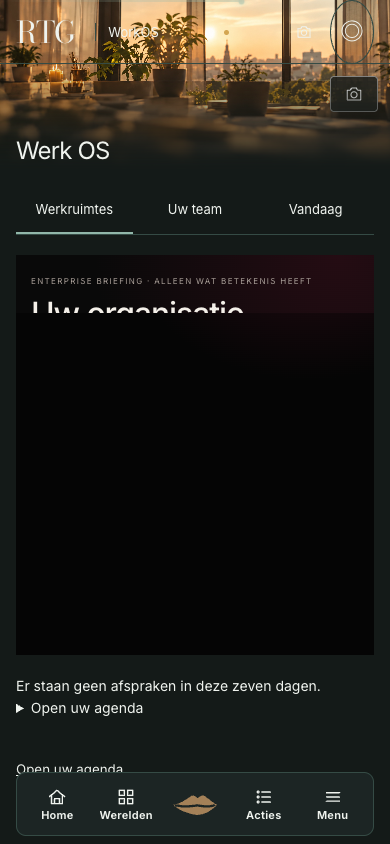
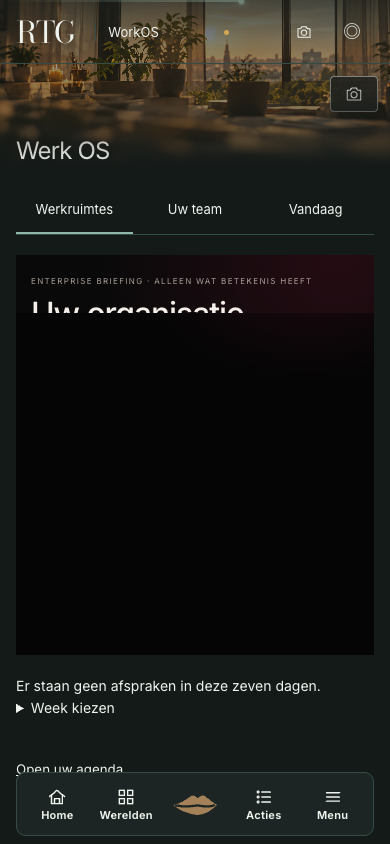
Finish warm presentation accessibility and preserve shared frame at closed rooms

diff --git a/public/shared/rtg-foundation-meedoen-ontdekken-2026.css b/public/shared/rtg-foundation-meedoen-ontdekken-2026.css
@@ -10,7 +10,7 @@ body.foundation-meedoen .mo-paginakop>button .rtg-glyf,body.foundation-meedoen .
 body.foundation-meedoen .mo-sluit{border:1px solid var(--mo-lijn)!important;background:transparent!important;color:var(--mo-inkt)!important;font-size:1.4rem!important}
 *{box-sizing:border-box}.foundation-meedoen{margin:0;background:var(--mo-ivoor);color:var(--mo-inkt);font-family:Inter,Arial,sans-serif;padding-bottom:calc(6rem + env(safe-area-inset-bottom));min-height:100vh}.foundation-meedoen button,.foundation-meedoen a{font:inherit}.mo-skip{position:fixed;top:-4rem;left:1rem;z-index:100;background:var(--mo-papier);color:var(--mo-inkt);padding:.7rem 1rem}.mo-skip:focus{top:1rem}.mo-top{position:sticky;top:0;z-index:20;height:4.5rem;padding:.7rem clamp(1rem,4vw,2rem);display:flex;align-items:center;gap:.85rem;background:rgba(18,61,58,.97);color:#fffaf1;border-bottom:1px solid rgba(255,255,255,.16)}.mo-brand{font-family:'Bodoni Moda',Georgia,serif;font-size:2rem;color:#d6b36b;text-decoration:none;line-height:1}.mo-world{display:flex;flex-direction:column;line-height:1.15}.mo-world b{font-size:.92rem}.mo-world span{font-size:.58rem;letter-spacing:.14em;text-transform:uppercase;opacity:.74;margin-top:.22rem}.mo-profiel{margin-left:auto;color:#fffaf1;width:2.65rem;height:2.65rem;border:1px solid rgba(255,255,255,.36);display:grid;place-items:center;border-radius:50%}.mo-profiel .rtg-glyf{width:1.3rem}.mo-main{max-width:50rem;margin:0 auto}.mo-view[hidden]{display:none}.mo-view.is-actief{animation:mo-in .26s ease both}@keyframes mo-in{from{opacity:.25;transform:translateY(5px)}to{opacity:1;transform:none}}.mo-kicker{margin:0 0 .45rem;text-transform:uppercase;letter-spacing:.2em;font-size:.65rem;font-weight:700;color:var(--mo-wijn)}.mo-hero{position:relative;min-height:35rem;display:flex;align-items:flex-end;overflow:hidden;background:#4c3729}.mo-hero__beeld{position:absolute;inset:0;background:url('/images/worlds/heritage/foundation-meedoen-buurt-v1.jpg') center 42%/cover no-repeat;filter:saturate(.83) contrast(.96)}.mo-hero::after{content:"";position:absolute;inset:0;background:linear-gradient(180deg,rgba(10,27,25,.03) 20%,rgba(12,31,29,.88) 100%)}.mo-hero__laag{position:relative;z-index:1;color:#fffaf1;padding:5rem clamp(1.25rem,5vw,2.5rem) 2.5rem;max-width:43rem}.mo-hero__laag .mo-kicker{color:#e0bf7a}.mo-hero h1,.mo-paginakop h1,.mo-detailbeeld h1{font-family:'Bodoni Moda',Georgia,serif!important;text-transform:none!important;font-weight:400!important;letter-spacing:-.025em!important}.mo-hero h1{font-size:clamp(2.55rem,8vw,4.7rem);line-height:.98;margin:0;max-width:12ch}.mo-hero__laag>p:not(.mo-kicker){max-width:31rem;line-height:1.6;margin:1rem 0 1.25rem;color:#f6f0e7}.mo-hoofdknop{min-height:3.25rem;padding:.8rem 1.1rem;border:0;background:var(--mo-wijn);color:white;font-weight:700;display:inline-flex;align-items:center;justify-content:center;gap:.75rem;cursor:pointer}.mo-hoofdknop .rtg-glyf{width:1rem}.mo-hoofdknop:disabled{background:#857d74;cursor:not-allowed}.mo-hoofdknop.is-bewaard{background:var(--mo-teal)}.mo-hoofdknop--breed{width:100%}.mo-inhoud{padding:1.35rem clamp(1rem,4vw,2rem);display:grid;gap:1rem}.mo-inhoud--smal,.mo-inhoud--detail{max-width:43rem;margin:0 auto}.mo-stadregel,.mo-heading{display:flex;align-items:end;justify-content:space-between;gap:1rem}.mo-stadregel h2,.mo-heading h2,.mo-belofte h2,.mo-dialoog h2{font-family:'Bodoni Moda',Georgia,serif;font-weight:500;margin:0;font-size:1.6rem;line-height:1.1}.mo-tekstknop,.mo-heading>button{border:0;background:none;color:var(--mo-wijn);font-weight:700;padding:.7rem 0;cursor:pointer}.mo-steden{display:grid;grid-template-columns:repeat(auto-fill,minmax(8.5rem,1fr));gap:.7rem}.mo-steden>button{border:1px solid var(--mo-lijn);background:var(--mo-papier);color:var(--mo-inkt);padding:.7rem;text-align:left;display:grid;grid-template-columns:2.6rem 1fr;gap:.15rem .65rem;cursor:pointer}.mo-steden>button>span{grid-row:1/3;width:2.6rem;height:2.6rem;display:grid;place-items:center;background:#e4d8c2;color:var(--mo-wijn);font-family:'Bodoni Moda',serif;font-size:1.2rem}.mo-steden>button b{font-size:.82rem}.mo-steden>button small{color:var(--mo-zacht);overflow:hidden;text-overflow:ellipsis;white-space:nowrap}.mo-steden>button[aria-pressed=true]{border-color:var(--mo-wijn);box-shadow:inset 0 -3px var(--mo-wijn)}.mo-paneel{background:var(--mo-papier);border:1px solid var(--mo-lijn);padding:1.05rem}.mo-lijst,.mo-activiteiten{display:grid;margin-top:.65rem}.mo-activiteit{width:100%;border:0;border-top:1px solid var(--mo-lijn);background:transparent;color:var(--mo-inkt);padding:.85rem .2rem;display:grid;grid-template-columns:3.1rem 1fr auto;gap:.75rem;align-items:center;text-align:left;cursor:pointer}.mo-activiteit:first-child{border-top:0}.mo-datum{border-right:1px solid var(--mo-lijn);text-align:center;display:flex;flex-direction:column}.mo-datum b{font-family:'Bodoni Moda',serif;font-size:1.45rem}.mo-datum small,.mo-activiteit__copy small{font-size:.62rem;text-transform:uppercase;letter-spacing:.1em;color:var(--mo-wijn)}.mo-activiteit__copy{display:flex;flex-direction:column;min-width:0}.mo-activiteit__copy b{font-size:.95rem;margin:.12rem 0}.mo-activiteit__copy em{font-style:normal;color:var(--mo-zacht);font-size:.75rem;white-space:nowrap;overflow:hidden;text-overflow:ellipsis}.mo-activiteit__eind{display:flex;align-items:center;gap:.3rem;color:var(--mo-wijn)}.mo-activiteit__eind small{font-size:.65rem;white-space:nowrap}.mo-activiteit__eind .rtg-glyf{width:.9rem}.mo-leeg{padding:1.2rem .5rem;color:var(--mo-zacht);display:flex;flex-direction:column;gap:.3rem;line-height:1.5}.mo-leeg b{color:var(--mo-inkt)}.mo-belofte{padding:1.15rem;display:flex;gap:1rem;align-items:center;background:var(--mo-teal);color:#fffaf1}.mo-belofte>.rtg-glyf{width:2.2rem;color:#d6b36b;flex:none}.mo-belofte p{margin:.35rem 0 0;color:rgba(255,250,241,.78);font-size:.83rem;line-height:1.5}.mo-paginakop{min-height:14rem;padding:2.2rem clamp(1rem,4vw,2rem);display:grid;grid-template-columns:auto 1fr auto;gap:1rem;align-items:start;background:linear-gradient(135deg,#0e3533,#1d514c);color:#fffaf1}.mo-paginakop--goud{background:linear-gradient(135deg,#765b2e,#b28b49)}.mo-paginakop--kansen{background:linear-gradient(135deg,#2e1821,#7f1736)}.mo-paginakop>button{width:2.7rem;height:2.7rem;border:1px solid rgba(255,255,255,.45);background:transparent;color:#fffaf1;display:grid;place-items:center;cursor:pointer}.mo-paginakop>button .rtg-glyf{width:1.1rem}.mo-paginakop h1{font-size:clamp(2.1rem,7vw,3.5rem);line-height:1;margin:0;max-width:12ch}.mo-paginakop p:last-child{font-size:.85rem;line-height:1.5;opacity:.8;max-width:31rem}.mo-paginakop .mo-stadwissel{display:flex;flex-direction:column;width:auto;height:auto;min-width:3.6rem;padding:.6rem}.mo-stadwissel span{font-size:.62rem;margin-top:.2rem}.mo-filters{display:grid;grid-template-columns:repeat(3,1fr);border-bottom:1px solid var(--mo-lijn)}.mo-filters button{border:0;background:transparent;color:var(--mo-zacht);padding:.8rem .25rem;cursor:pointer}.mo-filters button.is-actief{color:var(--mo-wijn);font-weight:700;box-shadow:inset 0 -3px var(--mo-wijn)}.mo-activiteiten{background:var(--mo-papier);border:1px solid var(--mo-lijn);padding:0 .85rem;margin:0}.mo-kaart{background:var(--mo-papier);border:1px solid var(--mo-lijn);padding:1rem}.mo-kaartbeeld{position:relative;min-height:14rem;margin-top:1rem;overflow:hidden;background-color:#e7dfd0;background-image:linear-gradient(33deg,transparent 47%,rgba(18,61,58,.1) 48% 52%,transparent 53%),linear-gradient(122deg,transparent 47%,rgba(18,61,58,.08) 48% 52%,transparent 53%);background-size:6rem 5rem}.mo-kaartbeeld>p{position:absolute;left:.6rem;bottom:.45rem;margin:0;font-size:.63rem;color:var(--mo-zacht);background:rgba(255,250,241,.86);padding:.3rem}.mo-pin{position:absolute;display:flex;align-items:center;gap:.3rem;color:var(--mo-wijn);max-width:9rem}.mo-pin .rtg-glyf{width:1.15rem;flex:none}.mo-pin b{font-size:.67rem;background:var(--mo-papier);padding:.24rem;border:1px solid var(--mo-lijn)}.mo-pin--1{left:10%;top:20%}.mo-pin--2{right:8%;top:30%}.mo-pin--3{left:30%;bottom:25%}.mo-pin--4{right:24%;bottom:12%}.mo-kaartleeg{position:absolute;inset:0;display:grid;place-items:center;color:var(--mo-zacht);font-size:.8rem}.mo-detailbeeld{min-height:24rem;padding:1.2rem clamp(1rem,4vw,2rem) 2rem;display:flex;flex-direction:column;justify-content:space-between;color:#fffaf1;background:linear-gradient(180deg,rgba(12,31,29,.05),rgba(12,31,29,.84)),url('/images/worlds/heritage/foundation-meedoen-buurt-v1.jpg') center/cover}.mo-detailbeeld.is-creatief{background-image:linear-gradient(180deg,rgba(12,31,29,.05),rgba(12,31,29,.84)),url('/images/worlds/heritage/foundation-meedoen-atelier-v1.jpg')}.mo-detailbeeld>button{width:2.8rem;height:2.8rem;border:1px solid rgba(255,255,255,.6);background:rgba(10,30,28,.4);color:white;display:grid;place-items:center;cursor:pointer}.mo-detailbeeld h1{font-size:clamp(2.5rem,9vw,4.2rem);line-height:1;margin:0;max-width:12ch}.mo-detailbeeld .mo-kicker{color:#e0bf7a}.mo-detailmeta{display:grid;grid-template-columns:repeat(3,1fr);border:1px solid var(--mo-lijn);background:var(--mo-papier)}.mo-detailmeta p{margin:0;padding:.9rem .65rem;display:flex;gap:.5rem;border-left:1px solid var(--mo-lijn)}.mo-detailmeta p:first-child{border-left:0}.mo-detailmeta .rtg-glyf{width:1rem;color:var(--mo-wijn);flex:none}.mo-detailmeta span{display:flex;flex-direction:column}.mo-detailmeta small{font-size:.6rem;text-transform:uppercase;color:var(--mo-zacht)}.mo-detailmeta b{font-size:.73rem;margin-top:.18rem}.mo-detailuitleg{font-family:'Bodoni Moda',serif;font-size:1.45rem;line-height:1.4;margin:.4rem 0}.mo-plekstatus{background:#e1ede6;color:#184d3d;padding:0}.mo-plekstatus:not(:empty){padding:.8rem}.mo-plekstatus b,.mo-plekstatus span{display:block}.mo-plekstatus span{font-size:.76rem;margin-top:.22rem;line-height:1.45}.mo-nevenknop{width:100%;min-height:3.1rem;background:transparent;border:1px solid var(--mo-wijn);color:var(--mo-wijn);font-weight:700;cursor:pointer}.mo-eerlijk{display:flex;align-items:flex-start;gap:.6rem;margin:.15rem 0;font-size:.72rem;line-height:1.5;color:var(--mo-zacht)}.mo-eerlijk .rtg-glyf{width:1rem;flex:none}.mo-maakroutes,.mo-kansenlijst{display:grid;gap:.75rem}.mo-maakroutes a{display:grid;grid-template-columns:2.5rem 1fr auto;gap:.8rem;align-items:center;padding:1rem;background:var(--mo-papier);border:1px solid var(--mo-lijn);color:var(--mo-inkt);text-decoration:none}.mo-maakroutes>a>.rtg-glyf:first-child{width:1.5rem;color:var(--mo-wijn)}.mo-maakroutes>a>.rtg-glyf:last-child{width:.9rem}.mo-maakroutes span{display:flex;flex-direction:column}.mo-maakroutes small{color:var(--mo-zacht);line-height:1.45;margin-top:.2rem}.mo-kansenlijst article{display:flex;gap:.8rem;border-top:1px solid var(--mo-lijn);padding:.85rem 0}.mo-kansenlijst article:first-child{border-top:0}.mo-kansenlijst article>.rtg-glyf{width:1.25rem;color:var(--mo-wijn);flex:none}.mo-kansenlijst article div{display:flex;flex-direction:column}.mo-kansenlijst article small{color:var(--mo-wijn);text-transform:uppercase;letter-spacing:.1em;font-size:.6rem}.mo-kansenlijst article span{color:var(--mo-zacht);font-size:.78rem;line-height:1.5;margin-top:.2rem}.mo-dialoog{width:min(calc(100% - 2rem),28rem);border:0;background:var(--mo-papier);color:var(--mo-inkt);padding:1.5rem}.mo-dialoog::backdrop{background:rgba(10,20,18,.72)}.mo-dialoog>p{line-height:1.6;color:var(--mo-zacht)}.mo-sluit{float:right;width:2.5rem;height:2.5rem;border:1px solid var(--mo-lijn);background:transparent;font-size:1.4rem;cursor:pointer}.mo-vraaggegevens{border-left:3px solid var(--mo-goud);padding:.7rem;margin:1rem 0;background:#eee4d3;font-size:.82rem;line-height:1.5}.mo-nav{position:fixed;z-index:30;left:50%;bottom:0;transform:translateX(-50%);width:min(100%,50rem);height:calc(5rem + env(safe-area-inset-bottom));padding:0 .4rem env(safe-area-inset-bottom);display:grid;grid-template-columns:repeat(5,1fr);align-items:center;background:rgba(255,250,241,.98);border-top:1px solid var(--mo-lijn);box-shadow:0 -8px 25px rgba(28,35,32,.1)}.mo-nav button,.mo-nav a{height:100%;border:0;background:transparent;color:var(--mo-zacht);display:flex;flex-direction:column;gap:.25rem;align-items:center;justify-content:center;text-decoration:none;cursor:pointer}.mo-nav .rtg-glyf{width:1.25rem}.mo-nav span{font-size:.61rem}.mo-nav .is-actief{color:var(--mo-wijn);font-weight:700}.mo-nav .mo-plus{position:relative;color:var(--mo-wijn)}.mo-nav .mo-plus b{width:3.25rem;height:3.25rem;margin-top:-1rem;border-radius:50%;display:grid;place-items:center;background:var(--mo-wijn);color:white;font-size:1.65rem;font-weight:300;box-shadow:0 7px 18px rgba(102,15,43,.3)}
 .mo-stad-dialooglijst{display:grid;gap:.55rem;margin-top:1rem}.mo-stad-dialooglijst button{border:1px solid var(--mo-lijn);background:var(--mo-ivoor);color:var(--mo-inkt);padding:.75rem;display:grid;grid-template-columns:2.3rem 1fr;gap:.1rem .7rem;text-align:left;cursor:pointer}.mo-stad-dialooglijst button>span{grid-row:1/3;width:2.3rem;height:2.3rem;display:grid;place-items:center;background:var(--mo-teal);color:#fffaf1;font-family:'Bodoni Moda',serif}.mo-stad-dialooglijst button b{font-size:.85rem}.mo-stad-dialooglijst button small{color:var(--mo-zacht)}.mo-stad-dialooglijst button[aria-pressed=true]{border-color:var(--mo-wijn)}
-@media(max-width:767px){body.foundation-meedoen.rtg-edge-host{padding-top:0!important;padding-left:0!important;padding-bottom:calc(6rem + env(safe-area-inset-bottom))!important}.foundation-meedoen .rtg-edge-chrome,.foundation-meedoen .rtgsprong-greep{display:none!important}}
+@media(max-width:767px){body.foundation-meedoen.rtg-edge-host{padding-top:0!important;padding-left:0!important;padding-bottom:calc(6rem + env(safe-area-inset-bottom))!important}.foundation-meedoen:not([data-rtg-desktop]) .rtg-edge-chrome,.foundation-meedoen:not([data-rtg-desktop]) .rtgsprong-greep{display:none!important}}
 @media(max-width:540px){.mo-top{height:4.1rem}.mo-hero{min-height:31rem}.mo-paginakop{min-height:12.5rem;padding-top:1.35rem}.mo-paginakop h1{font-size:2.25rem}.mo-detailmeta{grid-template-columns:1fr}.mo-detailmeta p{border-left:0;border-top:1px solid var(--mo-lijn)}.mo-detailmeta p:first-child{border-top:0}.mo-detailbeeld{min-height:21rem}.mo-activiteit{grid-template-columns:2.8rem 1fr auto;gap:.55rem}.mo-activiteit__eind small{display:none}}
 @media(prefers-reduced-motion:reduce){.mo-view.is-actief{animation:none}.foundation-meedoen *{scroll-behavior:auto!important}}
 .mo-hero__beeld{background-image:url('/images/worlds/heritage/foundation-meedoen-buurt-v2.jpg')}

diff --git a/public/apps/app.html b/public/apps/app.html
@@ -21,7 +21,7 @@
      en bouwt het beginscherm zichzelf niet meer op: een zwart scherm zonder
      foutmelding. app-main-01.js vergelijkt de twee en haalt zichzelf dan een
      keer vers op. -->
-<meta name="rtg-bouw" content="ab634fa4">
+<meta name="rtg-bouw" content="b07acdef">
 <!-- De foutmelder staat bewust VOORAAN: hij moet de fouten van het opstarten
      kunnen zien, en die gebeuren voordat de rest geladen is. -->
 <script src="/shared/meelezen.js"></script>
@@ -1734,46 +1734,46 @@ try {
   .privrij{display:flex;gap:0.5rem;}
   .privknop.wis{border-color:rgba(194,58,94,0.4);}
 </style>
-<script src="/shared/command/catalog.js?v=ab634fa4" defer></script>
-<script src="/shared/command/console.js?v=ab634fa4" defer></script>
-<script src="/shared/command/verdeler.js?v=ab634fa4" defer></script>
-<script src="/shared/interface/module-sdk.js?v=ab634fa4" defer></script>
-<script src="/shared/interface/workspace-world-catalog.js?v=ab634fa4" defer></script>
-<script src="/shared/interface/workspace-continuity.js?v=ab634fa4" defer></script>
-<script src="/shared/interface/workspace-composer.js?v=ab634fa4" defer></script>
-<script src="/shared/interface/workspace-registries.js?v=ab634fa4" defer></script>
-<script src="/shared/interface/workspace-session.js?v=ab634fa4" defer></script>
-<script src="/shared/interface/workspace-policy.js?v=ab634fa4" defer></script>
-<script src="/shared/interface/workspace-context.js?v=ab634fa4" defer></script>
-<script src="/shared/interface/workspace-navigation.js?v=ab634fa4" defer></script>
-<script src="/shared/interface/workspace-state.js?v=ab634fa4" defer></script>
-<script src="/shared/interface/workspace-orchestrator.js?v=ab634fa4" defer></script>
-<script src="/shared/interface/workspace-blueprints.js?v=ab634fa4" defer></script>
-<script src="/shared/interface/workspace-broker.js?v=ab634fa4" defer></script>
-<script src="/shared/interface/workspace-module-host.js?v=ab634fa4" defer></script>
-<script src="/shared/interface/workspace-runtime.js?v=ab634fa4" defer></script>
-<script src="/shared/interface/workspace-legacy.js?v=ab634fa4" defer></script>
-<script src="/shared/interface/workspace-empty.js?v=ab634fa4" defer></script>
+<script src="/shared/command/catalog.js?v=b07acdef" defer></script>
+<script src="/shared/command/console.js?v=b07acdef" defer></script>
+<script src="/shared/command/verdeler.js?v=b07acdef" defer></script>
+<script src="/shared/interface/module-sdk.js?v=b07acdef" defer></script>
+<script src="/shared/interface/workspace-world-catalog.js?v=b07acdef" defer></script>
+<script src="/shared/interface/workspace-continuity.js?v=b07acdef" defer></script>
+<script src="/shared/interface/workspace-composer.js?v=b07acdef" defer></script>
+<script src="/shared/interface/workspace-registries.js?v=b07acdef" defer></script>
+<script src="/shared/interface/workspace-session.js?v=b07acdef" defer></script>
+<script src="/shared/interface/workspace-policy.js?v=b07acdef" defer></script>
+<script src="/shared/interface/workspace-context.js?v=b07acdef" defer></script>
+<script src="/shared/interface/workspace-navigation.js?v=b07acdef" defer></script>
+<script src="/shared/interface/workspace-state.js?v=b07acdef" defer></script>
+<script src="/shared/interface/workspace-orchestrator.js?v=b07acdef" defer></script>
+<script src="/shared/interface/workspace-blueprints.js?v=b07acdef" defer></script>
+<script src="/shared/interface/workspace-broker.js?v=b07acdef" defer></script>
+<script src="/shared/interface/workspace-module-host.js?v=b07acdef" defer></script>
+<script src="/shared/interface/workspace-runtime.js?v=b07acdef" defer></script>
+<script src="/shared/interface/workspace-legacy.js?v=b07acdef" defer></script>
+<script src="/shared/interface/workspace-empty.js?v=b07acdef" defer></script>
 <!-- RTG_WORKSPACE_MODULES_START: nieuwe modules komen via scripts/workspace-module.js binnen -->
-<script src="/shared/interface/second-screen-modules.js?v=ab634fa4" defer></script>
-<script src="/shared/interface/modules/context.js?v=ab634fa4" defer></script>
-<script src="/shared/interface/modules/travel.js?v=ab634fa4" defer></script>
-<script src="/shared/interface/modules/safety.js?v=ab634fa4" defer></script>
+<script src="/shared/interface/second-screen-modules.js?v=b07acdef" defer></script>
+<script src="/shared/interface/modules/context.js?v=b07acdef" defer></script>
+<script src="/shared/interface/modules/travel.js?v=b07acdef" defer></script>
+<script src="/shared/interface/modules/safety.js?v=b07acdef" defer></script>
 <!-- RTG_WORKSPACE_MODULES_END -->
-<script src="/shared/interface/workspace-experience.js?v=ab634fa4" defer></script>
-<script src="/shared/interface/second-screen.js?v=ab634fa4" defer></script>
-<script src="/shared/interface/second-screen-personal.js?v=ab634fa4" defer></script>
-<script src="/shared/command/bank.js?v=ab634fa4" defer></script>
-<script src="/shared/command/praat.js?v=ab634fa4" defer></script>
-<script src="/shared/command/inlogpoort.js?v=ab634fa4" defer></script>
-<script src="/shared/command/bladhaak.js?v=ab634fa4" defer></script>
-<script src="/shared/command/romp.js?v=ab634fa4" defer></script>
-<script src="/shared/command/geheugen.js?v=ab634fa4" defer></script>
+<script src="/shared/interface/workspace-experience.js?v=b07acdef" defer></script>
+<script src="/shared/interface/second-screen.js?v=b07acdef" defer></script>
+<script src="/shared/interface/second-screen-personal.js?v=b07acdef" defer></script>
+<script src="/shared/command/bank.js?v=b07acdef" defer></script>
+<script src="/shared/command/praat.js?v=b07acdef" defer></script>
+<script src="/shared/command/inlogpoort.js?v=b07acdef" defer></script>
+<script src="/shared/command/bladhaak.js?v=b07acdef" defer></script>
+<script src="/shared/command/romp.js?v=b07acdef" defer></script>
+<script src="/shared/command/geheugen.js?v=b07acdef" defer></script>
 <script src="/shared/rahul-tab/helpers.js" defer></script>
-<script src="/shared/command/beginscherm.js?v=ab634fa4" defer></script>
-<script src="/shared/command/bladstand.js?v=ab634fa4" defer></script>
-<script src="/shared/command/werktafel.js?v=ab634fa4" defer></script>
-<script src="/shared/command.js?v=ab634fa4" defer></script>
+<script src="/shared/command/beginscherm.js?v=b07acdef" defer></script>
+<script src="/shared/command/bladstand.js?v=b07acdef" defer></script>
+<script src="/shared/command/werktafel.js?v=b07acdef" defer></script>
+<script src="/shared/command.js?v=b07acdef" defer></script>
 <!-- niet defer: dit script draait voor elke inline-body-script en voor elk kader -->
 <script src="/shared/media.js"></script>
 <link href="/shared/ios.css" rel="stylesheet">
@@ -2458,8 +2458,8 @@ try {
 <script src="/shared/glyf.js"></script>
 <script src="/shared/emoji.js"></script>
 <script src="/shared/uitvoer.js"></script>
-<script src="/apps/magnaat-sandbox.js?v=ab634fa4"></script>
-<script src="/apps/magnaat-data.js?v=ab634fa4"></script>
+<script src="/apps/magnaat-sandbox.js?v=b07acdef"></script>
+<script src="/apps/magnaat-data.js?v=b07acdef"></script>
 <script src="/apps/access/meaning.js"></script>
 <script src="/apps/app-main.js" defer></script>
 <script>

diff --git a/public/shared/rtg-world-start.js b/public/shared/rtg-world-start.js
@@ -12,6 +12,16 @@
       if(closed)return;closed=true;observer.disconnect();w.clearTimeout(timer);w.clearTimeout(fallback);
       body.setAttribute('data-rtg-world-start','ready');body.removeAttribute('aria-busy');layer.hidden=true;
     }
+    function presentationReady() {
+      return embedded || body.dataset.rtgLayout !== 'standard' || body.dataset.rtgDesktopState === 'ready' ||
+        (body.dataset.rtgDesktopState === 'error' && !!d.querySelector('.wd-shell'));
+    }
+    function fallbackFinish() {
+      if (presentationReady()) { finish(); return; }
+      closed=true;observer.disconnect();w.clearTimeout(timer);body.removeAttribute('aria-busy');
+      body.dataset.rtgWorldStart='error';layer.textContent='Het scherm kon niet worden geopend. ';
+      var retry=d.createElement('button');retry.type='button';retry.textContent='Probeer opnieuw';retry.onclick=function(){w.location.reload();};layer.appendChild(retry);
+    }
     function check() {
       if(closed)return;
       /* Het dashboard commit alleen waar het hoort (niet ingebed, juiste route).
@@ -20,16 +30,16 @@
          schil in een frame opent twaalf seconden op dit scherm. */
       var luxe=w.RTGVandaagLuxe;
       var dashboardKlaar=body.getAttribute('data-rtg-world-dashboard-ready')==='true' || !!(luxe && typeof luxe.geschikt==='function' && !luxe.geschikt(d));
-      var ready=(embedded || body.getAttribute('data-rtg-edge-2-rendered')==='true') && dashboardKlaar;
+      var ready=(embedded || body.getAttribute('data-rtg-edge-2-rendered')==='true') && dashboardKlaar && presentationReady();
       if(ready && fontsReady && performance.now()-lastChange>=160) {
         requestAnimationFrame(function(){requestAnimationFrame(finish);});return;
       }
       timer=w.setTimeout(check,80);
     }
     var observer=new MutationObserver(function(){lastChange=performance.now();});
-    observer.observe(body,{childList:true,subtree:true,attributes:true,attributeFilter:['class','hidden','data-rtg-edge-2-rendered','data-rtg-world-dashboard-ready']});
+    observer.observe(body,{childList:true,subtree:true,attributes:true,attributeFilter:['class','hidden','data-rtg-edge-2-rendered','data-rtg-world-dashboard-ready','data-rtg-desktop-state']});
     if(d.fonts)d.fonts.ready.then(function(){fontsReady=true;lastChange=performance.now();});
-    var fallback=w.setTimeout(finish,12000);check();
+    var fallback=w.setTimeout(fallbackFinish,12000);check();
     w.addEventListener('pageshow',function(e){if(e.persisted)finish();},{once:true});
   }
   if(d.readyState==='loading')d.addEventListener('DOMContentLoaded',start,{once:true});else start();

diff --git a/test/world-dashboard.e2e.js b/test/world-dashboard.e2e.js
@@ -40,7 +40,7 @@ const WERELDEN = [
   },
   {
     naam: 'WorkOS', wereld: 'work', pad: '/apps/kantoor.html', hoofd: '#inhoud',
-    panelen: ['.wh-work-hero', '.wh-attention', '.wh-work-feature', '.wh-support'],
+    panelen: ['.wp-scene', '.wh-attention', '.wh-work-feature', '.wh-support'],
     maxCanvas: 1216, // De goedgekeurde editorial compositie is maximaal 76rem breed.
     context: ['wereldtabs', 'wereldapps'],
     oud: [
@@ -310,6 +310,7 @@ async function raakdoel(page, selector, label) {
 }
 
 async function bewijsHandeling(page, route, maat) {
+  if (await page.locator('.wp-domain:not([open])>summary').count()) await page.locator('.wp-domain>summary').click();
   const label = route.naam + ' @ ' + maat.naam;
   if (route.wereld === 'living') {
     const cta = '.dagkop .rtg-dashboard-hero-cta[href="/apps/life.html"]';
@@ -401,6 +402,8 @@ test('vier wereldhomes blijven native dashboards op zes schermbreedtes',
                 hoofd.getAttribute('data-rtg-dashboard-world') === cfg.wereld &&
                 document.querySelectorAll('.rtg-edge-2-context-slot').length === 1;
             }, route, { timeout: geduld(20000) });
+            await page.waitForSelector('body[data-rtg-desktop-state="ready"]');
+            if (await page.locator('.wp-domain:not([open])>summary').count()) await page.locator('.wp-domain>summary').click();
             const meting = await dashboardMeting(page, route);
             keurDashboard(meting, route, maat);
             const a11y = await page.evaluate(A11Y);

diff --git a/public/shared/rtg-warm-details.css b/public/shared/rtg-warm-details.css
@@ -1,0 +1,11 @@
+/* Details retain real actions; the approved scene owns the visual introduction. */
+body[data-rtg-desktop][data-rtg-layout="standard"][data-rtg-world="living"] .wp-domain-content .dagkop{display:block!important;background:transparent!important;border:0!important;box-shadow:none!important;padding:0!important;min-height:0!important}
+body[data-rtg-desktop][data-rtg-world="living"] .wp-domain-content .dagkop :is(h1,.ey),body[data-rtg-desktop][data-rtg-world="living"] .wp-domain-content .dagkop::after{display:none!important}
+body[data-rtg-desktop] .wp-atmosphere::after{content:"";position:absolute;inset:0;background:linear-gradient(color-mix(in srgb,var(--rtg-world-bg) 78%,transparent),transparent 85%);pointer-events:none}
+body[data-rtg-desktop] .wp-atmosphere .pi-change{z-index:1}
+body[data-rtg-desktop] .rtg-edge-profile{display:flex!important;align-items:center;justify-content:center;min-width:44px!important;min-height:44px!important;width:44px!important;height:44px!important;padding:0!important;border:0!important;font:400 18px/1 Inter,sans-serif!important}
+
+body[data-rtg-desktop][data-rtg-layout="standard"] .wp-domain-content .rtg-dashboard-hero-cta{background:var(--rtg-world-action)!important;color:var(--rtg-world-action-ink)!important;box-shadow:none!important}
+
+/* The closed-room gate keeps private content hidden; the shared atmosphere is public. */
+html.rtf-toegang-dicht body[data-rtg-desktop-access="locked"]>.wp-atmosphere{visibility:visible!important}

diff --git a/test/edgekaart.test.js b/test/edgekaart.test.js
@@ -198,8 +198,14 @@ test('de afgeleide controles vinden wat de kaart moet dragen, en kunnen zakken',
     /proef\.js: zet data-rtg-world op body en staat niet op de kaart als wereld:s/, 'een nieuwe wereldschrijver');
   zakt(met('public/apps/proef.html', "document.body.setAttribute('data-rtg-edge-2-state', 'focus');"),
     /proef\.html: zet data-rtg-edge-2-state op body/, 'een nieuwe schrijver van de Edge 2-stand, ook in een .html');
-  zakt(met('public/apps/proef.html', '<script src="/site/platform-app.js"></script>'),
-    /platform-app\.js: staat als zonder lader uitgezonderd, maar public\/apps\/proef\.html noemt/, 'een uitzondering waarvan de grond vervalt');
+  kaart.ZONDER_LADER.push('public/site/proef-world.js');
+  try {
+    const fixture = wand.concat([
+      ['public/site/proef-world.js', "document.body.setAttribute('data-rtg-world', 'work');"],
+      ['public/apps/proef.html', '<script src="/site/proef-world.js"></script>']
+    ]);
+    zakt(kaart.afgeleid(fixture).fouten, /proef-world\.js: staat als zonder lader uitgezonderd, maar public\/apps\/proef\.html noemt/, 'een uitzondering waarvan de grond vervalt');
+  } finally { kaart.ZONDER_LADER.pop(); }
 
   /* Een uitzondering die niets meer uitzondert, zakt -- net als een WAAROM
      zonder dubbele eigenaar. */

diff --git a/public/shared/interface/world-widget-surfaces.js b/public/shared/interface/world-widget-surfaces.js
@@ -28,7 +28,7 @@
       nav.appendChild(prev); var next = button('next', function () { o.offset(7); }, 'wd-text-button'); next.disabled = o.days() >= 28; nav.appendChild(next);
       if (o.compact) {
         var more = U.el('details', 'wd-date-controls'); more.open = !!o.state.calendarExpanded;
-        more.append(copy('summary', '', 'calendar'), nav); more.ontoggle = function () { if (more.isConnected) o.state.calendarExpanded = more.open; }; root.appendChild(more);
+        more.append(copy('summary', '', 'week'), nav); more.ontoggle = function () { if (more.isConnected) o.state.calendarExpanded = more.open; }; root.appendChild(more);
       } else root.appendChild(nav); root.appendChild(open('calendar'));
     }
     function notes(j) {

diff --git a/public/shared/interface/world-presentation.js b/public/shared/interface/world-presentation.js
@@ -40,7 +40,7 @@
   function start(o) {
     U = w.RTGDesktopUI; world = d.body.dataset.rtgWorld; P = w.RTGPersonalImages;
     if (!content[world]) return;
-    var atmosphere = photo('/images/world-homes/' + world + '-sfeer.jpg', 'sfeer', 'Sfeerbeeld', 'wp-atmosphere'); d.body.prepend(atmosphere);
+    var atmosphere = photo('/images/world-homes/' + world + '-sfeer.jpg', 'sfeer', 'Sfeerbeeld', 'wp-atmosphere'); d.body.appendChild(atmosphere);
     tabs(o.root, o.home, o.people, o.favorites);
     if (d.body.dataset.worldHome && !d.body.dataset.publicPlatform) homeScene(o.home, o.root);
     function toolbar() {

diff --git a/public/shared/interface/world-widget-copy.js b/public/shared/interface/world-widget-copy.js
@@ -30,6 +30,7 @@
     noRoute: ['Kies in Navigatie een bestemming om uw route te berekenen.', 'Choose a destination in Navigation to calculate your route.'],
     safeEmpty: ['Er is geen actieve wacht. Open Veilig om uw instellingen te bekijken.', 'There is no active watch. Open Safety to review your settings.'],
     current: ['Opgehaald', 'Retrieved'], grid: ['Toon kaarten', 'Show cards'], list: ['Toon een lijst', 'Show a list'],
+    week: ['Week kiezen', 'Choose week'],
     all: ['Alle apps', 'All apps'], favorites: ['Mijn widgets', 'My widgets']
   };
   w.I18N = w.I18N || {}; w.I18N.en = w.I18N.en || {};

diff --git a/public/apps/foundation/arena.html b/public/apps/foundation/arena.html
@@ -105,6 +105,7 @@
 <link id="rtgHeritageCss" href="/shared/rtg-heritage.css" rel="stylesheet">
 </head>
 <body class="rtg-stijl" data-rtg-world="foundation" data-rtg-skin="heritage" data-rtg-edge-2-state="compact" data-rtg-edge-2-auto="false" data-rtg-layout="standard">
+<main id="main">
 <canvas id="doek" aria-hidden="true"></canvas>
 
 <div class="bovenrij" hidden id="bovenrij">
@@ -200,6 +201,7 @@
   <button class="neon" data-terug type="button">Terug naar het menu</button>
 </div>
 
+</main>
 <script src="/shared/deur.js"></script>
 <script>
 (() => {

diff --git a/public/apps/foundation/societeit.html b/public/apps/foundation/societeit.html
@@ -101,6 +101,7 @@
 <link id="rtgHeritageCss" href="/shared/rtg-heritage.css" rel="stylesheet">
 </head>
 <body class="rtg-stijl" data-rtg-world="foundation" data-rtg-skin="heritage" data-rtg-edge-2-state="compact" data-rtg-edge-2-auto="false" data-rtg-layout="standard">
+<main id="main">
 <canvas id="doek" aria-hidden="true"></canvas>
 
 <div class="bovenrij" hidden id="bovenrij">
@@ -205,6 +206,7 @@
   <button class="neon" data-terug type="button">Terug naar het menu</button>
 </div>
 
+</main>
 <script src="/shared/deur.js"></script>
 <script>
 (() => {

diff --git a/public/shared/interface/world-desktop-home.js b/public/shared/interface/world-desktop-home.js
@@ -77,6 +77,8 @@
       edge();
       // Home hangt aan window en niet aan het model van de Edge: dat begint bij elke start leeg.
       w.addEventListener('rtg-edge-home', function (e) {
+        root.dataset.mobilePanel = 'home';
+        root.querySelectorAll('.wp-tabs button').forEach(function (b, i) { b.setAttribute('aria-expanded', String(i === 0)); });
         if (frame.isOpen()) { e.preventDefault(); frame.collapse(); }
         else if (d.body.dataset.worldHome) { e.preventDefault(); home.scrollIntoView({ block: 'start' }); }
       });
